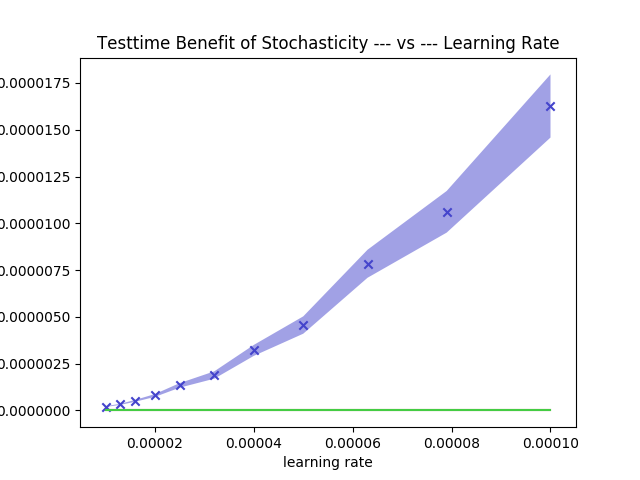
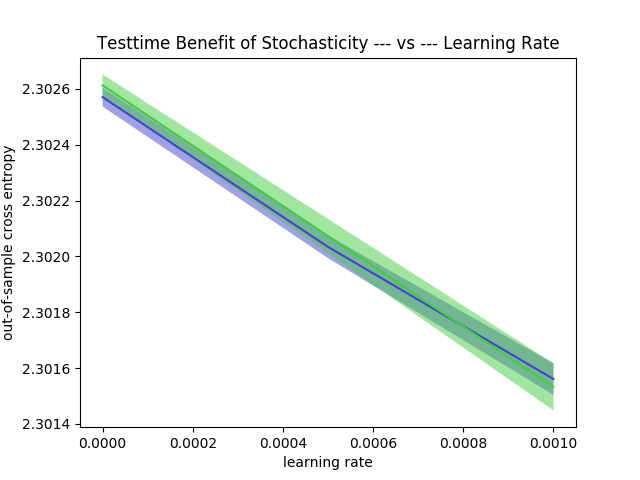
aha! crossentropieS plural should not have reduce_mean'd

diff --git a/experiments/eta_curve_shallow.py b/experiments/eta_curve_shallow.py
@@ -3,13 +3,13 @@
     create: 2017-10-07
     descrp: Compare SGD and GD out-of-sample performances (for a shallow dense network on small MNIST training sets)
             over a log-spaced range of learning rates, then APPEND summary statistics to `results.txt`.  To run, type:
-                python eta_curve.py 1000 128 0.00001 0.01 30 64 results.txt 
+                python eta_curve_shallow.py 1000 10 0.000 0.001 10 32 results_shallow.txt 
             The    1000 represents the number of trials to perform per experimental condition;
-            the     128 represents the training set size;
-            the 0.00001 represents the starting learning rate to sweep from;
-            the    0.01 represents the ending learning rate to sweep to;
-            the      30 represents (one less than) the number of learning rates to sweep through; and
-            the      64 represents the desired floating point precision (32 or 64).
+            the      10 represents the training set size;
+            the   0.000 represents the starting learning rate to sweep from;
+            the   0.001 represents the ending learning rate to sweep to;
+            the      10 represents (one less than) the number of learning rates to sweep through; and
+            the      32 represents the desired floating point precision (32 or 64).
 
             
 '''
@@ -107,25 +107,18 @@ class Classifier(object):
         self.TrueInputs = tf.placeholder(precision, shape=[None, 28*28])
         self.TrueOutputs= tf.placeholder(precision, shape=[None, 10])
 
-        WeightsA= tf.get_variable('Wa', shape=[  28*28,  64], dtype=precision)
-        BiasesA = tf.get_variable('Ba', shape=[          64], dtype=precision)
-        WeightsB= tf.get_variable('Wd', shape=[     64,  10], dtype=precision)
-        BiasesB = tf.get_variable('Bd', shape=[          10], dtype=precision)
+        WeightsA=self.WeightsA= tf.get_variable('Wa', shape=[  28*28,  10], dtype=precision)
+        BiasesA =self.BiasesA = tf.get_variable('Ba', shape=[          10], dtype=precision)
 
-        self.InitWeightsA= tf.placeholder(precision, shape=[  28*28,  64])
-        self.InitBiasesA = tf.placeholder(precision, shape=[          64])
-        self.InitWeightsB= tf.placeholder(precision, shape=[     64,  10])
-        self.InitBiasesB = tf.placeholder(precision, shape=[          10])
+        self.InitWeightsA= tf.placeholder(precision, shape=[  28*28,  10])
+        self.InitBiasesA = tf.placeholder(precision, shape=[          10])
         self.Initializer = tf.tuple([
             tf.assign(WeightsA, self.InitWeightsA),
             tf.assign(BiasesA, self.InitBiasesA),
-            tf.assign(WeightsB, self.InitWeightsB),
-            tf.assign(BiasesB, self.InitBiasesB)
         ])
 
-        HiddenLayerA = slrelu(tf.matmul(self.TrueInputs, WeightsA) + BiasesA)
-        HiddenLayerB = tf.matmul(HiddenLayerA, WeightsB) + BiasesB
-        self.PredictedLogits = HiddenLayerB
+        HiddenLayerA = tf.matmul(self.TrueInputs, WeightsA) + BiasesA
+        self.PredictedLogits = HiddenLayerA
 
     def create_trainer(self, precision=tf.float32):
         ''' Define the loss and corresponding gradient-based update.  The difference between gd and sgd is not codified
@@ -139,7 +132,17 @@ class Classifier(object):
         self.Loss = tf.reduce_mean(CrossEntropies)
         
         self.LearningRate = tf.placeholder(dtype=precision)
-        self.Update = tf.train.GradientDescentOptimizer(self.LearningRate).minimize(self.Loss)
+
+        self.GradientWeightsA = tf.convert_to_tensor(tf.gradients(self.Loss, self.WeightsA))[0]
+        self.GradientBiasesA = tf.convert_to_tensor(tf.gradients(self.Loss, self.BiasesA))[0]
+
+        self.Update = tf.tuple([
+            tf.assign(self.WeightsA, self.WeightsA - self.LearningRate * self.GradientWeightsA), 
+            tf.assign(self.BiasesA, self.BiasesA - self.LearningRate * self.GradientBiasesA) 
+        ])
+        self.Intensity =    tf.reduce_mean(tf.square(self.GradientWeightsA)) + \
+                            tf.reduce_mean(tf.square(self.GradientBiasesA))  
+        #tf.train.GradientDescentOptimizer(self.LearningRate).minimize(self.Loss)
         
         PredictionIsCorrect = tf.equal(tf.argmax(self.PredictedLogits, 1), tf.argmax(self.TrueOutputs, 1))
         self.Accuracy = tf.reduce_mean(tf.cast(PredictionIsCorrect, precision))
@@ -148,19 +151,15 @@ class Classifier(object):
         ''' Sample weights (as numpy arrays) distributed according to Glorot-Bengio recommended length scales.  These
             weights are intended to be initializers. 
         '''
-        wa = np.random.randn(28*28, 64) * np.sqrt(2.0 / (28*28 + 64))
-        ba = np.random.randn(64) * np.sqrt(2.0 / 64)
-        wb = np.random.randn(64, 10) * np.sqrt(2.0 / (64 + 10))
-        bb = np.random.randn(10) * np.sqrt(2.0 / 10)
-        return (wa, ba, wb, bb)
+        wa = 0.01 * np.random.randn(28*28, 10) * np.sqrt(2.0 / (28*28 + 10))
+        ba = 0.01 * np.random.randn(10) * np.sqrt(2.0 / 10)
+        return (wa, ba)
 
-    def initialize_weights(self, wa, ba, wb, bb): 
+    def initialize_weights(self, wa, ba): 
         ''' Initialize weights as a RUNTIME OPERATION, not by creating new graph nodes. '''
         self.session.run(self.Initializer, feed_dict={
             self.InitWeightsA:wa,
             self.InitBiasesA:ba,
-            self.InitWeightsB:wb,
-            self.InitBiasesB:bb
         })
 
     def run(self, dataset, ins_time, batch_size, learning_rate, opt='sgd'): 
@@ -169,11 +168,12 @@ class Classifier(object):
         '''
         for t in range(ins_time):
             batch_inputs, batch_outputs = dataset.get_batch(batch_size=batch_size, split='ins', opt=opt) 
-            self.session.run(self.Update, feed_dict={
+            inten, _ = self.session.run([self.Intensity, self.Update], feed_dict={
                 self.TrueInputs:batch_inputs,
                 self.TrueOutputs:batch_outputs,
                 self.LearningRate:learning_rate
             }) 
+        #print(inten)
         
         ins_inputs, ins_outputs = dataset.get_all('ins') 
         out_inputs, out_outputs = dataset.get_all('out') 

diff --git a/experiments/model_shallow.py b/experiments/model_shallow.py
@@ -3,10 +3,10 @@
     create: 2017-10-07
     descrp: Compare SGD and GD out-of-sample performances (for a shallow dense network on small MNIST training sets)
             over a log-spaced range of learning rates, then APPEND summary statistics to `results.txt`.  To run, type:
-                python model.py 100 256 64 ests.txt
-            The     100 represents the number of trials to perform per experimental condition;
-            the     256 represents the training set size;
-            the      64 represents the desired floating point precision (32 or 64).
+                python model_shallow.py 10000 10 32 ests_shallow.txt
+            The   10000 represents the number of trials to perform
+            the      10 represents the training set size;
+            the      32 represents the desired floating point precision (32 or 64).
 
             
 '''
@@ -69,7 +69,6 @@ def gradient_stats(Losses, Weights, BATCH_SIZE):
     #       dependency
     Linker = 0.0*tf.reduce_sum(tf.square(Weights))
     LinkedLosses = Losses + Linker
-    print('avgx shape', avg_x.shape)
     AvgLoss = tf.reduce_mean(LinkedLosses)
     
     #--------------------------------------------------------------------------#
@@ -186,34 +185,29 @@ class Classifier(object):
         self.TrueInputs = tf.placeholder(precision, shape=[batch_size, 28*28])
         self.TrueOutputs= tf.placeholder(precision, shape=[batch_size, 10])
 
-        self.Weights = tf.get_variable('flattened', shape=[28*28*64 + 64 + 64*10 + 10, batch_size], dtype=precision)
+        self.Weights = tf.get_variable('flattened', shape=[28*28*10 + 10, batch_size], dtype=precision)
 
-        WeightsA = tf.transpose(tf.reshape(self.Weights[:28*28*64, :],                               [28*28, 64, batch_size]), perm=[2, 0, 1])
-        BiasesA =  tf.transpose(tf.reshape(self.Weights[ 28*28*64:28*28*64+64, :],                       [1, 64, batch_size]), perm=[2, 0, 1])
-        WeightsB = tf.transpose(tf.reshape(self.Weights[          28*28*64+64:28*28*64+64+64*10, :],    [64, 10, batch_size]), perm=[2, 0, 1])
-        BiasesB =  tf.transpose(tf.reshape(self.Weights[                      28*28*64+64+64*10:, :],    [1, 10, batch_size]), perm=[2, 0, 1])
+        WeightsA = tf.transpose(tf.reshape(self.Weights[:28*28*10, :],                               [28*28, 10, batch_size]), perm=[2, 0, 1])
+        BiasesA =  tf.transpose(tf.reshape(self.Weights[ 28*28*10:28*28*10+10, :],                       [1, 10, batch_size]), perm=[2, 0, 1])
 
-        self.InitWeightsA= tf.placeholder(precision, shape=[  28*28,  64])
-        self.InitBiasesA = tf.placeholder(precision, shape=[          64])
-        self.InitWeightsB= tf.placeholder(precision, shape=[     64,  10])
-        self.InitBiasesB = tf.placeholder(precision, shape=[          10])
-        self.Inits = tf.concat([tf.reshape(init, [-1]) for init in [self.InitWeightsA, self.InitBiasesA, self.InitWeightsB, self.InitBiasesB]], axis=0)
+        self.InitWeightsA= tf.placeholder(precision, shape=[  28*28,  10])
+        self.InitBiasesA = tf.placeholder(precision, shape=[          10])
+        self.Inits = tf.concat([tf.reshape(init, [-1]) for init in [self.InitWeightsA, self.InitBiasesA]], axis=0)
         self.Replicated = tf.stack([self.Inits]*batch_size, axis=1) 
         self.Initializer = tf.assign(self.Weights, self.Replicated)
 
-        HiddenLayerA = slrelu(tf.matmul(tf.stack([self.TrueInputs], axis=1), WeightsA) + BiasesA)
-        HiddenLayerB = tf.matmul(HiddenLayerA, WeightsB) + BiasesB
-        self.PredictedLogits = tf.reshape(HiddenLayerB, shape=[batch_size, 10])
+        HiddenLayerA = tf.matmul(tf.stack([self.TrueInputs], axis=1), WeightsA) + BiasesA
+        self.PredictedLogits = tf.reshape(HiddenLayerA, shape=[batch_size, 10])
 
     def create_trainer(self, batch_size, precision=tf.float32):
         ''' Define the loss and corresponding gradient-based update.  The difference between gd and sgd is not codified
             here; instead, the difference lies in the size and correlations between batches we use to train the
             classifier, i.e. in the values assigned to `TrueInputs` and `TrueOutputs` at each gradient update step.
         '''
-        CrossEntropies = tf.reduce_mean(tf.nn.softmax_cross_entropy_with_logits(
+        CrossEntropies = tf.nn.softmax_cross_entropy_with_logits(
             labels=self.TrueOutputs,
             logits=self.PredictedLogits
-        ))
+        )
         self.Loss = tf.reduce_mean(CrossEntropies)
         
         PredictionIsCorrect = tf.equal(tf.argmax(self.PredictedLogits, 1), tf.argmax(self.TrueOutputs, 1))
@@ -226,19 +220,15 @@ class Classifier(object):
         ''' Sample weights (as numpy arrays) distributed according to Glorot-Bengio recommended length scales.  These
             weights are intended to be initializers. 
         '''
-        wa = np.random.randn(28*28, 64) * np.sqrt(2.0 / (28*28 + 64))
-        ba = np.random.randn(64) * np.sqrt(2.0 / 64)
-        wb = np.random.randn(64, 10) * np.sqrt(2.0 / (64 + 10))
-        bb = np.random.randn(10) * np.sqrt(2.0 / 10)
-        return (wa, ba, wb, bb)
+        wa = 0.01 * np.random.randn(28*28, 10) * np.sqrt(2.0 / (28*28 + 10))
+        ba = 0.01 * np.random.randn(10) * np.sqrt(2.0 / 10)
+        return (wa, ba)
 
-    def initialize_weights(self, wa, ba, wb, bb): 
+    def initialize_weights(self, wa, ba):
         ''' Initialize weights as a RUNTIME OPERATION, not by creating new graph nodes. '''
         self.session.run(self.Initializer, feed_dict={
             self.InitWeightsA:wa,
             self.InitBiasesA:ba,
-            self.InitWeightsB:wb,
-            self.InitBiasesB:bb
         })
 
     def run(self, dataset): 

diff --git a/experiments/vis.py b/experiments/vis.py
@@ -2,20 +2,30 @@ from matplotlib import pyplot as plt
 import numpy as np
 import re
 
+'''
+    A. mean loss                                    {()}                                    SENTIMENT
+    B. trace of square gradient                     {(a)}{(a)}                              INTENSITY
+    C. trace of covariance of gradients             {(a)(a)} - {(a)}{(a)}                   UNCERTAINTY
+    D. 1st order increase of (B) along gradient     2{(a)}{(ab)}{(b)}                       PASSION
+    E. 1st order increase of (C) along gradient     2{(a)}{(ab)(b)} - 2{(a)}{(ab)}{(b)}     AUDACITY
+    F. trace of hessian times square gradient       {(ab)}{(a)}{(b)}                        PASSION/2
+    G. trace of hessian times covariance            {(ab)}{(a)(b)} - {(ab)}{(a)}{(b)}       PERIL 
+'''
+
 X = []
 Y = []
 S = []
 
-with open('results.txt') as f:
+with open('results_shallow.txt') as f:
     text = f.read() 
     paragraphs = filter(None, text.split('\n'))
     for p in paragraphs: 
         opt = re.search(r'OPT=(\S+)', p).group(1)
-        if opt != 'diff': continue
+        if opt != 'gd': continue
         metric = re.search(r'METRIC=(\S+):', p).group(1)
         if metric != 'OL': continue
         learning_rate = float(re.search(r'LEARNING_RATE=(\S+)', p).group(1))
-        if learning_rate >= 0.00011: continue
+        #if learning_rate >= 0.005: continue
         nb_trials = float(re.search(r'NB_TRIALS=(\S+)', p).group(1))
         mean = float(re.search(r':\s+(\S+)', p).group(1))
         stddev = float(re.search(r':\s+\S+\s+(\S+)', p).group(1))
@@ -24,18 +34,28 @@ with open('results.txt') as f:
         Y.append(mean)
         S.append(1.96 * stddev / np.sqrt(nb_trials))
 
+with open('ests_shallow.txt') as f:
+    lines = f.read().split('\n')
+    MTRIALS, _ = tuple(float(x) for x in lines[0].split() if x.isnumeric())
+    SEN, INT, UNC, PAS, AUD, PER = tuple(float(x) for x in lines[1].replace(',', ' ').split() if x.replace('.','').replace('-','').isnumeric())
+    SEN_,INT_,UNC_,PAS_,AUD_,PER_= tuple(float(x) for x in lines[2].replace(',', ' ').split() if x.replace('.','').replace('-','').isnumeric())
+
 red='#cc4444'
 green='#44cc44'
 blue='#4444cc'
+
+# PLOT experimental results:
 X = np.array(X)
 Y = np.array(Y)
 S = np.array(S)
-plt.plot(X, np.zeros(len(X)), color=red)
 plt.fill(np.concatenate([X, X[::-1]]), np.concatenate([Y-S, (Y+S)[::-1]]), facecolor=blue, alpha=0.5)
-plt.scatter(X, Y, color=blue, marker='x')
+plt.plot(X, Y, color=blue)
 
-AUD, PER = 0.000071, 0.000127
-E = 0.25*X*X * ((64*(64-1))/2.0 * (1.0/64) * (AUD+PER) + 64*(1.0/64 - 1) * PER)
+# PLOT theoretical predictions:
+TIME = 1
+E = SEN - X * TIME * INT
+S_ = 1.96 * (SEN_ + X * TIME * INT_) / MTRIALS**0.5
+plt.fill(np.concatenate([X, X[::-1]]), np.concatenate([E-S_, (E+S_)[::-1]]), facecolor=green, alpha=0.5)
 plt.plot(X, E, color=green)
 
 plt.xlabel('learning rate')
